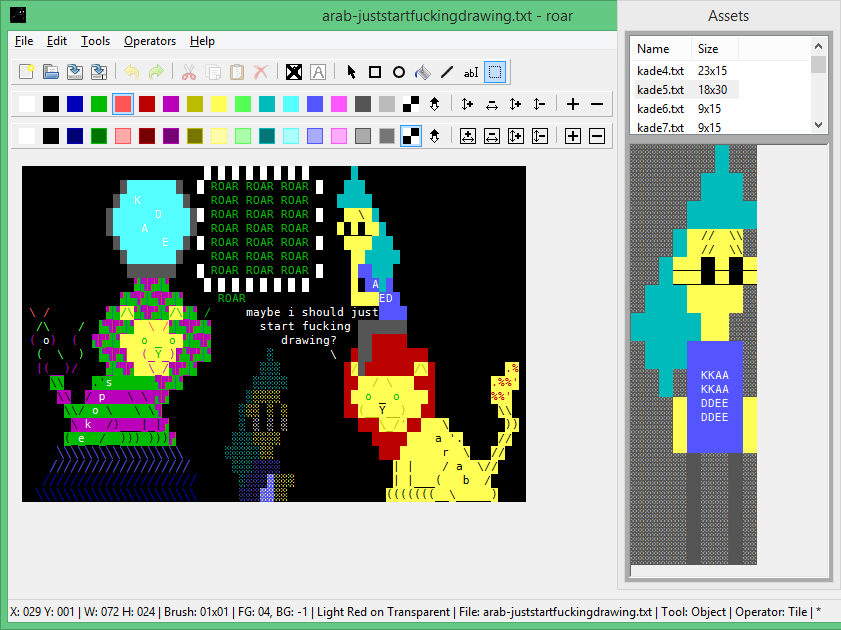
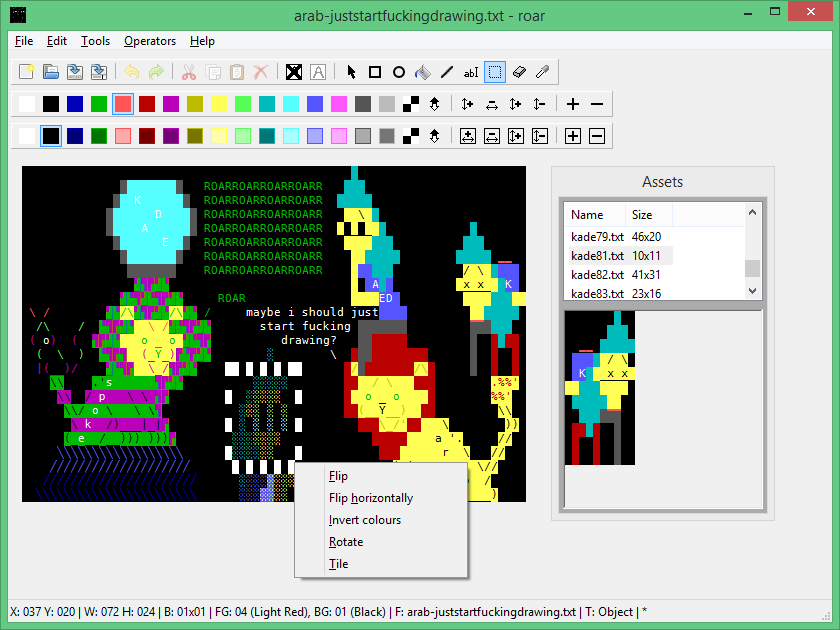
Further shorten {file,operator,tool} status bar items.
assets/images/roar.png: updated.

diff --git a/libroar/RoarCanvasCommands.py b/libroar/RoarCanvasCommands.py
@@ -47,12 +47,9 @@ class RoarCanvasCommands(RoarCanvasCommandsFile, RoarCanvasCommandsEdit, RoarCan
         if "size" in self.lastPanelState:
             textItems.append("W: {:03d} H: {:03d}".format(*self.lastPanelState["size"]))
         if "brushSize" in self.lastPanelState:
-            textItems.append("Brush: {:02d}x{:02d}".format(*self.lastPanelState["brushSize"]))
+            textItems.append("B: {:02d}x{:02d}".format(*self.lastPanelState["brushSize"]))
         if "colours" in self.lastPanelState:
-            textItems.append("FG: {:02d}, BG: {:02d}".format(*self.lastPanelState["colours"]))
-            textItems.append("{} on {}".format(
-                Colours[self.lastPanelState["colours"][0]][4] if self.lastPanelState["colours"][0] != -1 else "Transparent",
-                Colours[self.lastPanelState["colours"][1]][4] if self.lastPanelState["colours"][1] != -1 else "Transparent"))
+            textItems.append("FG: {:02d} ({}), BG: {:02d} ({})".format(self.lastPanelState["colours"][0], Colours[self.lastPanelState["colours"][0]][4] if self.lastPanelState["colours"][0] != -1 else "Transparent", self.lastPanelState["colours"][1], Colours[self.lastPanelState["colours"][1]][4] if self.lastPanelState["colours"][1] != -1 else "Transparent"))
             toolBar = self.parentFrame.toolBarItemsById[self.canvasColour(self.canvasColour, self.lastPanelState["colours"][0]).attrDict["id"]][0]
             toolBarBg = self.parentFrame.toolBarItemsById[self.canvasColourBackground(self.canvasColourBackground, self.lastPanelState["colours"][1]).attrDict["id"]][0]
             if self.lastPanelState["colours"][0] != -1:
@@ -70,15 +67,15 @@ class RoarCanvasCommands(RoarCanvasCommandsFile, RoarCanvasCommandsEdit, RoarCan
         if "pathName" in self.lastPanelState:
             if self.lastPanelState["pathName"] != None:
                 basePathName = os.path.basename(self.lastPanelState["pathName"])
-                textItems.append("File: {}".format(basePathName))
+                textItems.append("F: {}".format(basePathName))
                 self.parentFrame.SetTitle("{} - roar".format(basePathName))
             else:
                 self.parentFrame.SetTitle("roar")
         if "toolName" in self.lastPanelState:
-            textItems.append("Tool: {}".format(self.lastPanelState["toolName"]))
+            textItems.append("T: {}".format(self.lastPanelState["toolName"]))
         if  ("operator" in self.lastPanelState)         \
         and (self.lastPanelState["operator"] != None):
-            textItems.append("Operator: {}".format(self.lastPanelState["operator"]))
+            textItems.append("O: {}".format(self.lastPanelState["operator"]))
         if  "dirty" in self.lastPanelState              \
         and self.lastPanelState["dirty"]:
             textItems.append("*")
